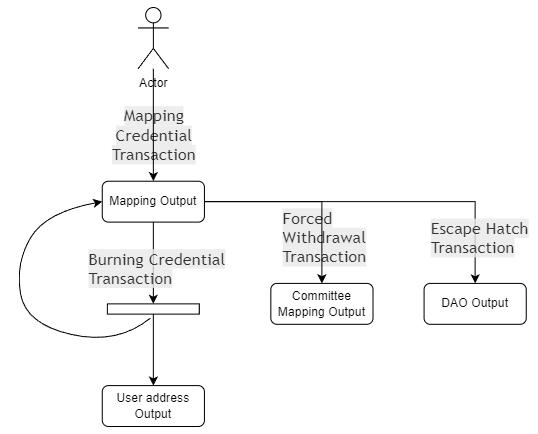
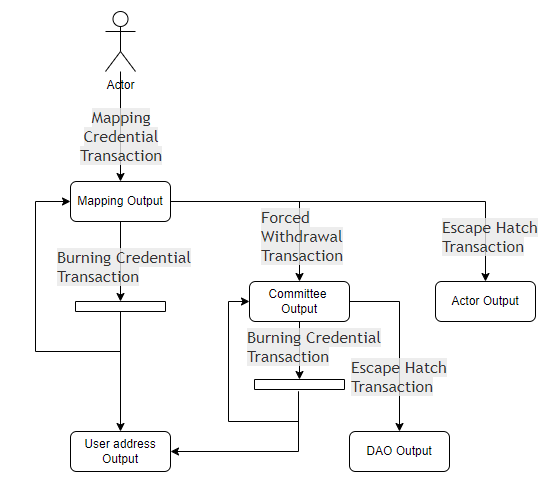
docs: update README

Changed region(s): [[0.0297, 0.0, 0.9814, 0.9885], [0.3569, 0.9585, 0.3866, 0.9885]]

diff --git a/README.md b/README.md
@@ -2,6 +2,8 @@
 
 By combining Taproot with DHC, Bool Network enables Bitcoin DeFi with self-custody, ensuring cryptographic trust for Restaking, Bitcoin-Collateralized Stablecoin, and Bridge applications on native Bitcoin.
 
+![architecture](./res/architecture.png)
+
 ## What is Taproot?
 
 Taproot is a significant advancement in contract publication on the blockchain, addressing various concerns by enabling settlement through the publication of only relevant contract portions. This innovation not only enhances security but also introduces a new, expansive language for improved flexibility and scalability. 
@@ -73,6 +75,32 @@ Q = PK  +     H(PK | Fh)G
                 +-------------------+   +-----------------+
 ```
 
+## Channels
+
+### Whale Two-way Channel
+
+Any user is eligible to submit an application to the system to open an exclusive whale channel. After a strict review process, applicants who meet the requirements will be granted the identity of a valid channel. While ensuring the characteristics of decentralization and self-custody, this channel can successfully mint BTC into WBTC. When users use the whale channel to convert WBTC back to BTC, they need to obtain the explicit confirmation of the owner of the whale channel. If the whale owner does not confirm and exceeds the preset time-lock period of the channel, the system will intervene and safely transfer the BTC in the whale channel to the one-way channel, and this operation is called a forced withdrawal.
+
+Asset unlocking conditions: 1. The owner of the channel and the committee agree. 2. The time lock for forced withdrawal expires. 3. The escape time lock expires.
+
+### Retail Two-way Channel
+
+The retail channel, as a special case of the whale channel, has the privilege of being opened exclusively by the Bool Network team. It not only has all the functions of the whale channel but is also renowned for its automation, high-efficiency response, and convenience in handling small-amount operations, bringing users an unprecedented user experience. If it exceeds the preset time-lock period of the channel, the system will transfer the BTC in the retail channel to the one-way channel.
+
+Asset unlocking conditions: 1.The Bool Network team and the committee agree. 2. The time lock for forced withdrawal expires. 3. The escape time lock expires.
+
+### One-way Channel
+
+The one-way channel focuses on the one-way conversion from WBTC to BTC and is used to store assets from forced withdrawals. It can smoothly convert WBTC back to BTC even in the face of failures in the whale or retail channels. Once the one-way channel fails, all assets will be quickly and safely transferred to the multi-signature address to ensure the safety of the assets.
+
+Asset unlocking conditions: 1. The committee agrees. 2. The escape time lock expires.
+
+
+![channels](./res/channels.png)
+
+Two time periods that need attention are the "escape lock time" and the "forced withdrawal lock time". Generally, the escape lock time is longer than the forced withdrawal lock time. The system sets the escape lock time equal to the forced withdrawal lock time plus six months, which means that the system has a six-month response time to transfer the assets of abnormal channels to the one-way channel. Meanwhile, the escape lock time of the one-way channel is longer than that of the non-one-way channels, so that users have sufficient response time to convert WBTC back to BTC.
+
+**Note: The escape lock time of the one-way channel > The escape lock time of the non-one-way channels > The forced withdrawal lock time.**
 
 ## Working Flow
 
